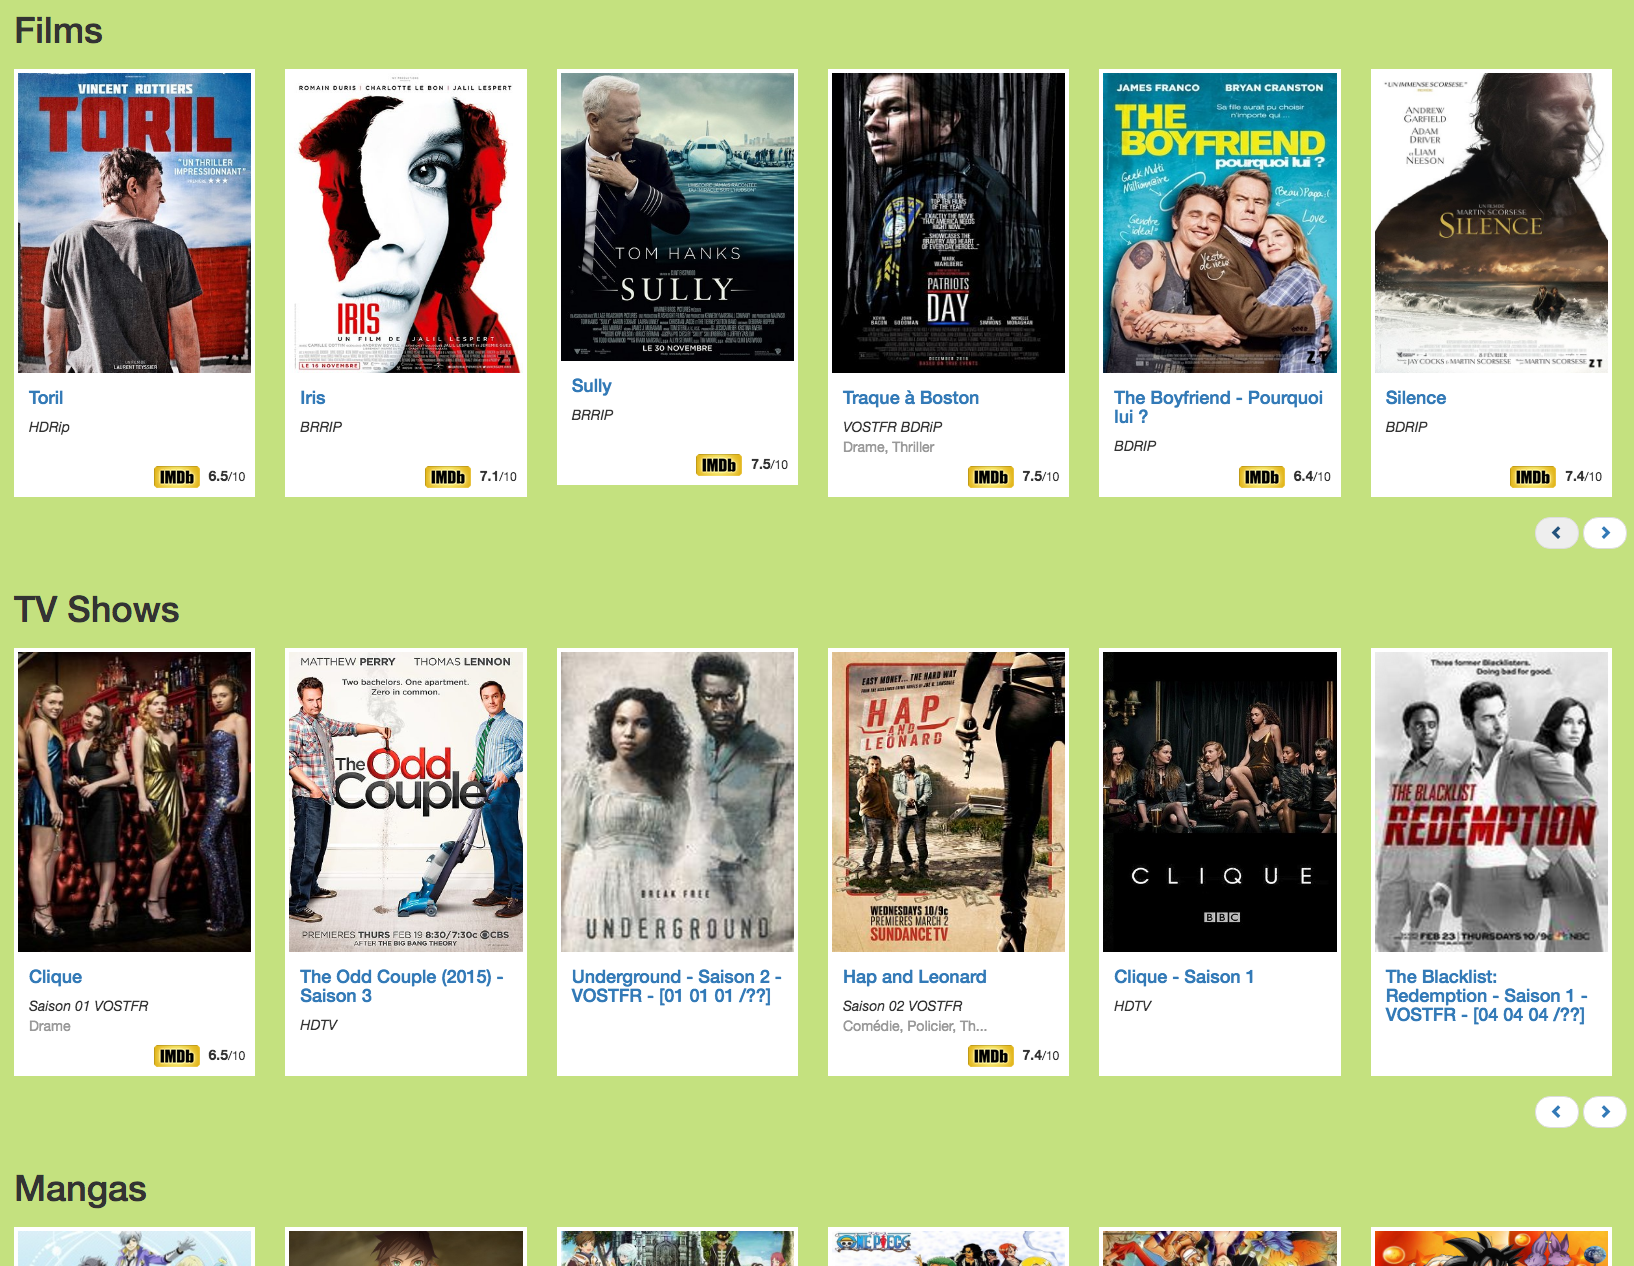
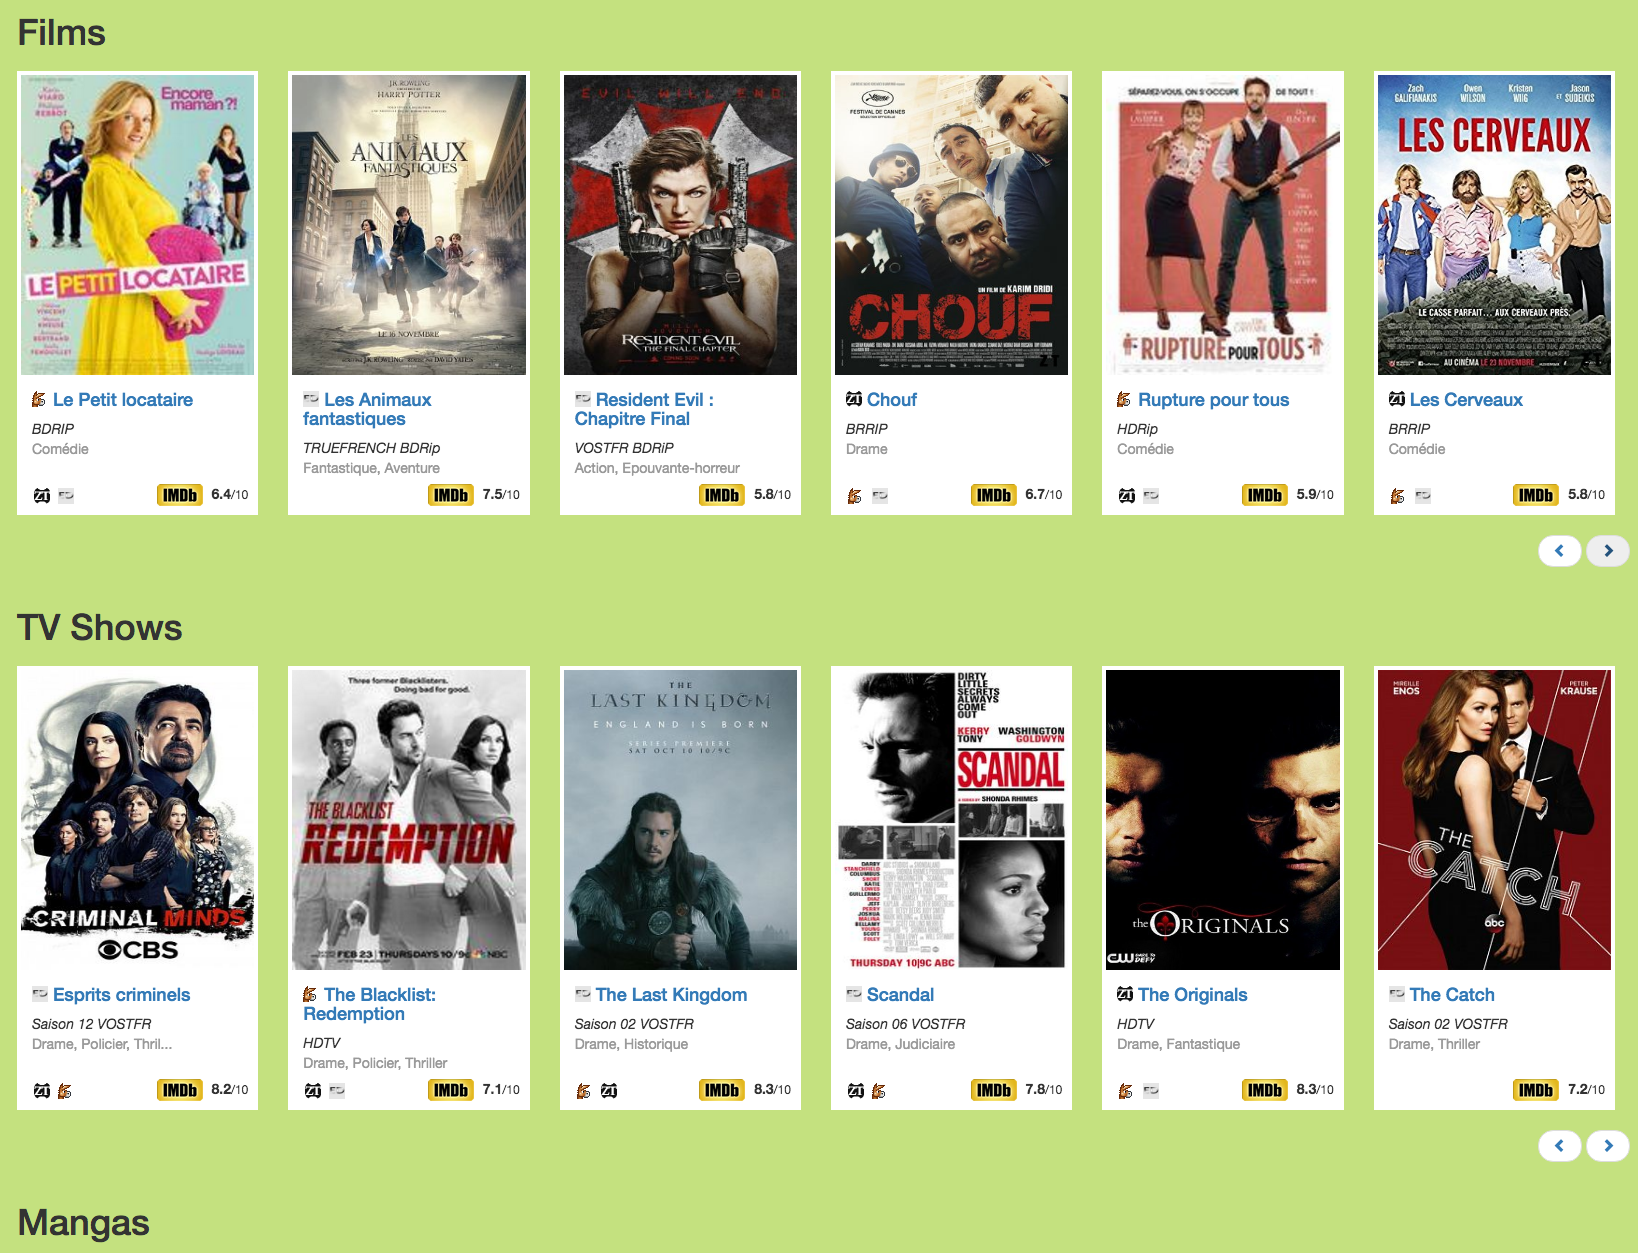
Add clone website and display

diff --git a/scrapddl/templates/item.html b/scrapddl/templates/item.html
@@ -5,8 +5,11 @@
         </a>
     </div>
     <div class="caption">
-        <h4>
-            <a href="{{ item.page_url }}" target="_blank">{{ item.title }}</a>
+        <h4 class="title">
+            <a href="{{ item.page_url }}" target="_blank">
+                <img class="favicon" src="{{url_for('static', filename=item.from_website+'.ico')}}"/>
+                {{ item.title }}
+            </a>
         </h4>
         {% if item.quality_language %}
             <i>{{ item.quality_language }}</i>
@@ -14,6 +17,15 @@
         {% if item.genre %}
             <p>{{ item.genre }}</p>
         {% endif %}
+
+        <div class="favicon-clone">
+            {% for i_clone in item.items_clone %}
+                <a href="{{ i_clone.page_url }}" target="_blank">
+                    <img class="favicon" src="{{url_for('static', filename=i_clone.from_website+'.ico')}}"/>
+                </a>
+            {% endfor %}
+        </div>
+
         <div class="imdb-rating imdb-rating-{{ item.slug }}">
             {% if item.rating_imdb %}
                 {% with rating_imdb=item.rating_imdb %}

diff --git a/scrapddl/static/main.css b/scrapddl/static/main.css
@@ -18,8 +18,6 @@ a:hover {
     text-decoration: none;
 }
 
-
-
 body{
     border-top:0;
     background:#c4e17f;
@@ -70,7 +68,7 @@ ul.thumbnails {
 }
 .thumbnails li> .fff .caption {
     padding: 1px 15px;
-    height: 120px;
+    height: 136px;
 }
 .caption h4 {
     color: #444;
@@ -80,6 +78,22 @@ ul.thumbnails {
     color: #999;
 }
 
+.favicon {
+    height: 16px;
+    width: 16px;
+}
+.title .favicon{
+    margin: 1px 5px 0px 0px;
+    float: left;
+}
+
+.favicon-clone{
+    position: absolute;
+    bottom: 10px;
+}
+.favicon-clone .favicon{
+    margin: 0 2px;
+}
 
 
 /* Carousel Control */

diff --git a/scrapddl/items/items.py b/scrapddl/items/items.py
@@ -1,3 +1,4 @@
+from collections import OrderedDict
 from itertools import chain
 from spiders.imdb import ImdbSpider
 
@@ -17,12 +18,24 @@ class GroupItem(object):
         self.items = [l for l in chain(*zip(*items_list))]
 
     def set_unique(self):
-        seen = set()
-        seen_add = seen.add
-        self.items = [
-            x for x in self.items
-            if not (x.title.lower() in seen or seen_add(
-                x.title.lower()))]
+        items_processed = OrderedDict()
+        for item in self.items:
+            title = item.title.lower()
+            if title in items_processed:
+                item_from = items_processed.get(title)
+                if not item_from.items_clone:
+                    item_from.items_clone.append(item)
+                else:
+                    # Check item clone has not same "from website" before add it
+                    if not item_from.from_website == item.from_website:
+                        ii = [it.from_website for it in item_from.items_clone
+                              if it.from_website == item.from_website]
+                        if not ii:
+                            item_from.items_clone.append(item)
+                items_processed[title] = item_from
+            else:
+                items_processed[title] = item
+        self.items = items_processed.values()
 
     def set_imdb_rating(self):
         for item in self.items[:self.per_page]:
@@ -47,9 +60,57 @@ class Item(object):
     page_url = None
     rating_imdb = None
 
+    def __init__(self, from_website):
+        self.from_website = from_website
+        self.items_clone = []
+
     @staticmethod
     def fetch_imdb_rating(title):
         if title:
             imdb = ImdbSpider(title)
             imdb.process()
             return imdb.rating
+
+    def get_clone_property(self, field):
+        for item in self.items_clone:
+            if getattr(item, field):
+                return getattr(item, field)
+
+    @property
+    def description(self):
+        if self._description:
+            return self._description
+        else:
+            # Get the clone one if exist
+            if self.items_clone:
+                return self.get_clone_property("description")
+
+    @description.setter
+    def description(self, value):
+        self._description = value
+
+    @property
+    def genre(self):
+        if self._genre:
+            return self._genre
+        else:
+            # Get the clone one if exist
+            if self.items_clone:
+                return self.get_clone_property("genre")
+
+    @genre.setter
+    def genre(self, value):
+        self._genre = value
+
+    @property
+    def quality_language(self):
+        if self._quality_language:
+            return self._quality_language
+        else:
+            # Get the clone one if exist
+            if self.items_clone:
+                return self.get_clone_property("quality_language")
+
+    @quality_language.setter
+    def quality_language(self, value):
+        self._quality_language = value

diff --git a/scrapddl/spiders/base.py b/scrapddl/spiders/base.py
@@ -12,6 +12,7 @@ class BaseSpider(object):
     main_attr_html = None
     main_class = None
     clean_pattern_title = []
+    from_website = None
 
     def __init__(self):
         self.group_items = GroupItem()
@@ -53,7 +54,7 @@ class BaseSpider(object):
 
     def _parse_page(self, url):
         for element in self._get_elements(url):
-            o = Item()
+            o = Item(self.from_website)
             o.page_url = self._get_page_url(element)
             o.title = self._get_title(element)
             o.slug = slugify(o.title)

diff --git a/scrapddl/spiders/univers_anime.py b/scrapddl/spiders/univers_anime.py
@@ -7,6 +7,7 @@ class UniversAnimeMangaSpider(BaseSpider):
     main_class = 'category-mangasaimeseries'
     domain = 'http://www.univers-animezi.com'
     clean_pattern_title = ["VOSTFR", "(2014)", "(2015)", "(2016)", "(2017)"]
+    from_website = "univers-anime"
 
     def _get_root(self, tree):
         return tree.xpath("//{}[contains(@class, {}) and contains(@class ,'type-post')]".format(

diff --git a/scrapddl/spiders/golden_kai.py b/scrapddl/spiders/golden_kai.py
@@ -6,6 +6,7 @@ class GoldenKMangaSpider(BaseSpider):
     main_attr_html = 'article'
     main_class = 'release__block'
     domain = 'https://goldenkai.me'
+    from_website = "golden-kai"
 
     def _get_page_url(self, element):
         return element.xpath(".//a")[0].items()[0][1]

diff --git a/scrapddl/spiders/ddl_island.py b/scrapddl/spiders/ddl_island.py
@@ -5,6 +5,7 @@ class DDLIBaseSpider(BaseSpider):
     main_attr_html = 'div'
     main_class = 'fiche_listing'
     domain = 'http://www.ddl-island.su'
+    from_website = "ddl-island"
 
     def _get_page_url(self, element):
         return element.xpath(".//a")[0].items()[0][1]

diff --git a/scrapddl/spiders/extreme_down.py b/scrapddl/spiders/extreme_down.py
@@ -5,6 +5,7 @@ class EDBaseSpider(BaseSpider):
     main_attr_html = 'a'
     main_class = 'top-last thumbnails'
     domain = 'https://www.extreme-down.in'
+    from_website = "extreme-down"
 
     def _get_page_url(self, element):
         return element.items()[1][1]

diff --git a/scrapddl/spiders/zone_telechargement.py b/scrapddl/spiders/zone_telechargement.py
@@ -5,6 +5,7 @@ class ZTBaseSider(BaseSpider):
     main_attr_html = 'div'
     main_class = 'cover_global'
     domain = "https://zone-telechargement.ws"
+    from_website = "zone-telechargement"
 
     def _get_page_url(self, element):
         return element.xpath(
